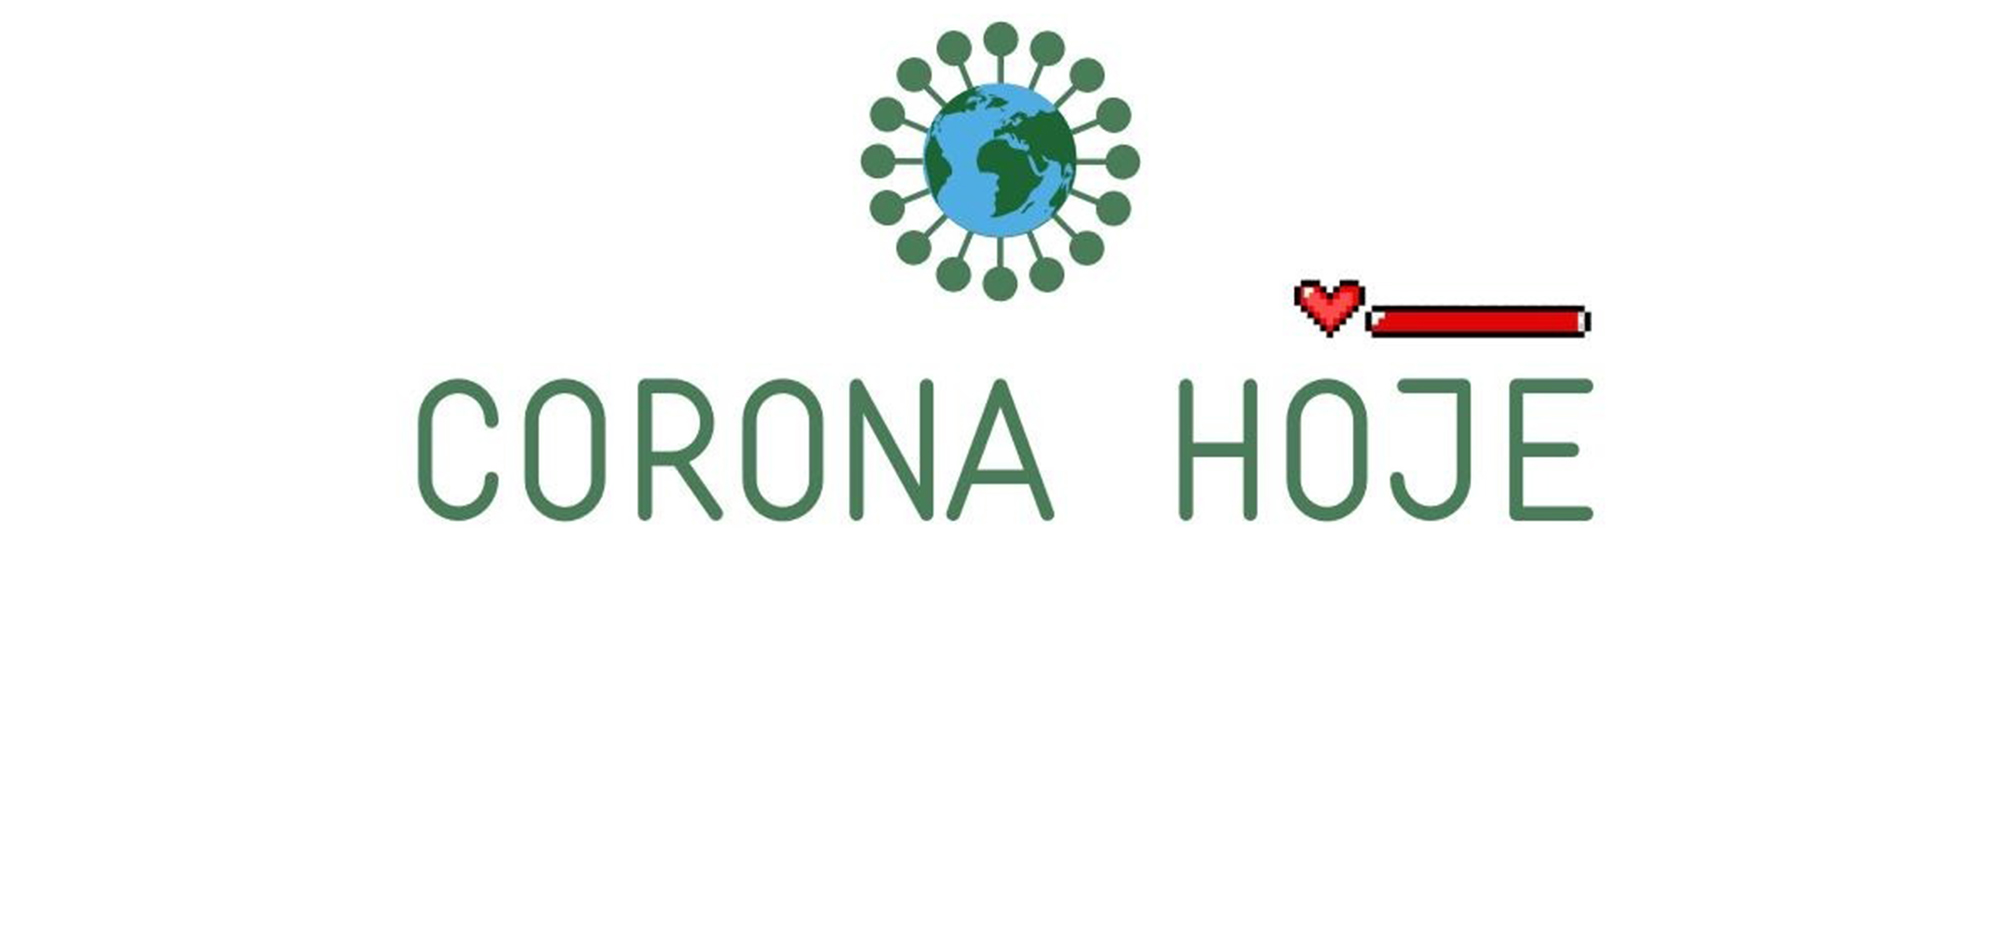
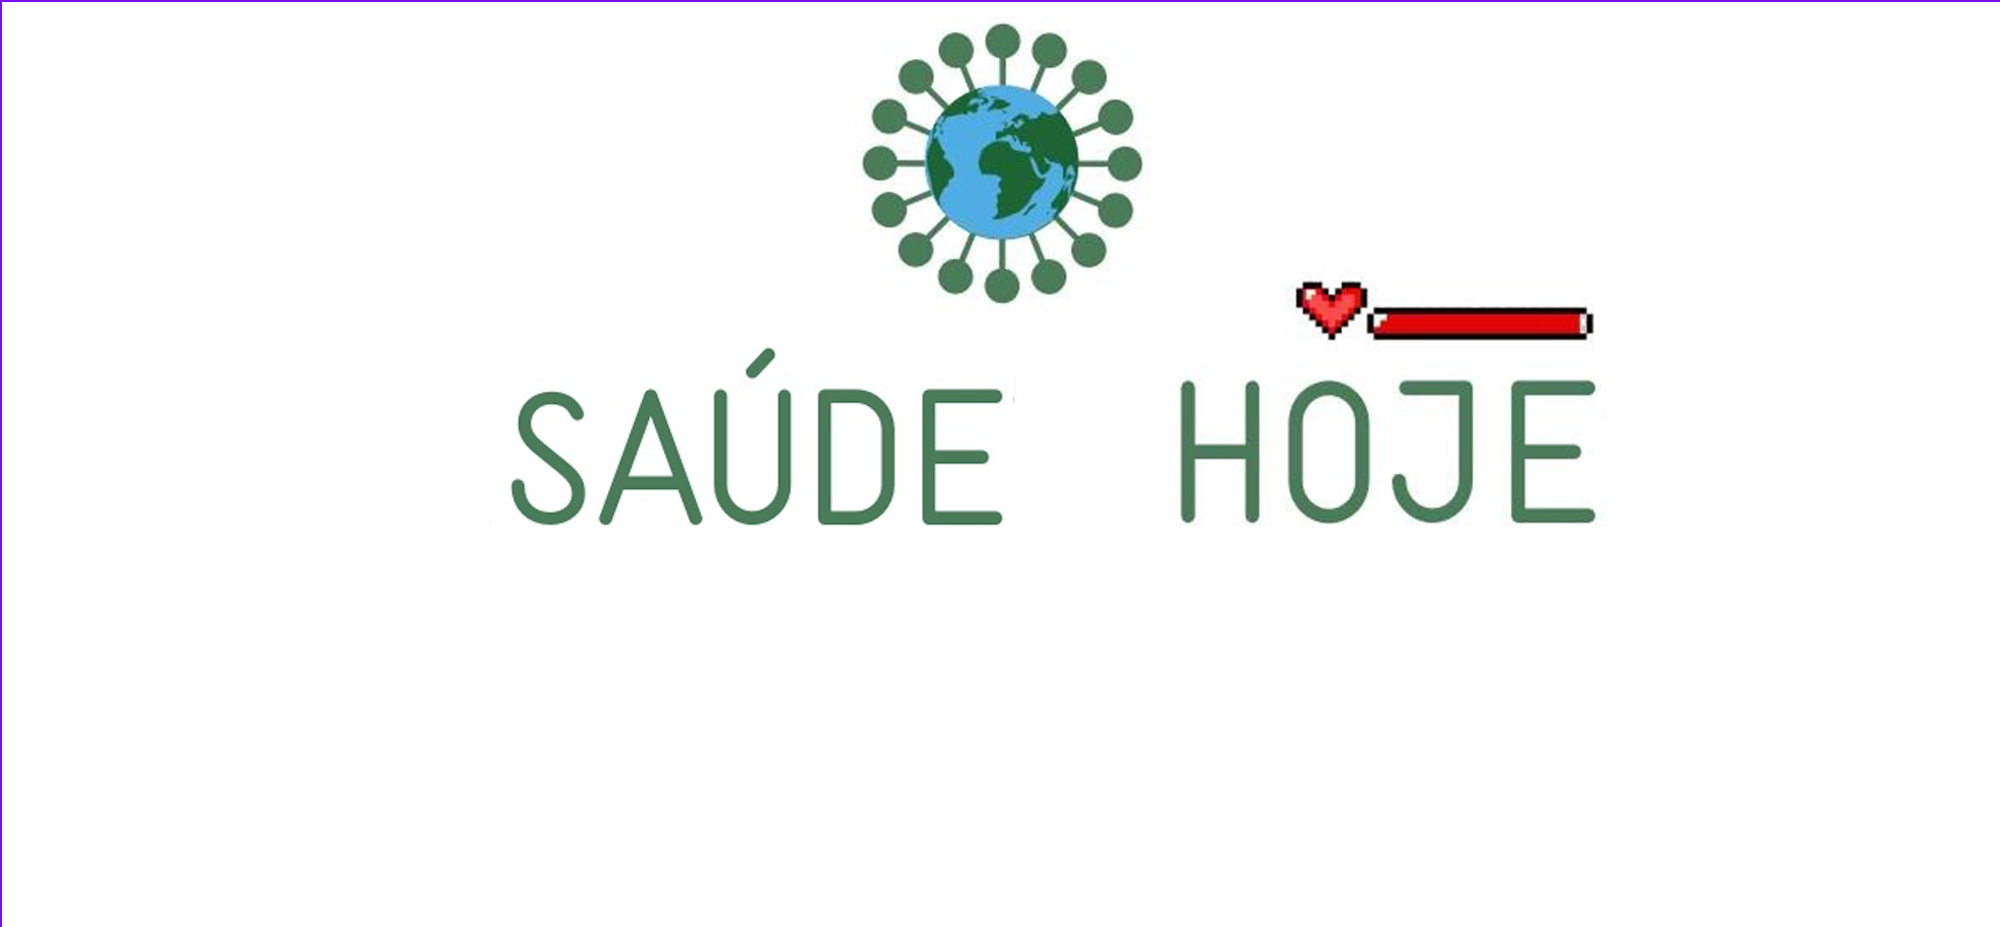
html ajust

diff --git a/src/www/saudehoje.html b/src/www/saudehoje.html
@@ -4,15 +4,15 @@
     <title>Outlier5</title>
     <meta charset="utf-8">
     <meta name="viewport" content="width=device-width, initial-scale=1, shrink-to-fit=no">
-    
+
     <link rel="shortcut icon" type="image/png" href="./images/ico.png"/>
 
     <link href="https://fonts.googleapis.com/css?family=Montserrat:200,300,400,500,600,700,800&display=swap" rel="stylesheet">
 
     <link rel="stylesheet" href="https://stackpath.bootstrapcdn.com/font-awesome/4.7.0/css/font-awesome.min.css">
- 
+
     <link rel="stylesheet" href="css/animate.css">
-    
+
     <link rel="stylesheet" href="css/owl.carousel.min.css">
     <link rel="stylesheet" href="css/owl.theme.default.min.css">
     <link rel="stylesheet" href="css/magnific-popup.css">
@@ -30,7 +30,7 @@
 			<div class="container">
 				<div class="row">
 					<div class="col-md-6 d-flex align-items-center">
-						<p class="mb-0 phone pl-md-2"> 
+						<p class="mb-0 phone pl-md-2">
 							<a href="mailto:contato@outlier5.com"><span class="fa fa-paper-plane mr-1"></span> contato@outlier5.com</a>
 						</p>
 					</div>
@@ -55,7 +55,7 @@
 	        <ul class="navbar-nav ml-auto">
               <li class="nav-item col-md-6"><a href="index.html" class="nav-link">Home</a></li>
 							<li class="nav-item col-md-6"><a href="about.html" class="nav-link">Sobre</a></li>
-							<li class="nav-item col-md-6 active"><a href="coronahoje.html" class="nav-link">Corona Hoje</a></li>
+							<li class="nav-item col-md-6 active"><a href="saudehoje.html" class="nav-link">Saúde hoje</a></li>
 							<!--<li class="nav-item"><a href="app.html" class="nav-link">App2</a></li>
 							<li class="nav-item"><a href="app.html" class="nav-link">App3</a></li>
 							<li class="nav-item"><a href="app.html" class="nav-link">App4</a></li>-->
@@ -70,7 +70,7 @@
         <div class="row no-gutters slider-text align-items-end">
           <div class="col-md-9 ftco-animate pb-5">
               <p class="breadcrumbs mb-2"><span class="mr-2"><a href="index.html">Home <i class="ion-ios-arrow-forward"></i></a></span> <span>App <i class="ion-ios-arrow-forward"></i></span></p>
-            <h1 class="mb-0 bread">Corona Hoje</h1>
+            <h1 class="mb-0 bread">Saúde hoje</h1>
           </div>
         </div>
       </div>
@@ -83,8 +83,8 @@
           	<p>
               <img src="images/bg_5.jpg" alt="" class="img-fluid">
             </p>
-            <h2 class="mb-3">Corona Hoje</h2>
-            <p>O Corona Hoje é um aplicativo móvel (em desenvolvimento) que fará uso de gamificação e geolocalização para promover o isolamento social voluntário, obter de dados de saúde da população em isolamento e gerar indicadores sobre o  cumprimento das medidas de contenção da epidemia.</p>
+            <h2 class="mb-3">Saúde hoje</h2>
+            <p>O Saúde hoje é um aplicativo móvel (em desenvolvimento) que fará uso de gamificação e geolocalização para promover o isolamento social voluntário, obter de dados de saúde da população em isolamento e gerar indicadores sobre o  cumprimento das medidas de contenção da epidemia.</p>
             <p>Nossa proposta é promover o isolamento social voluntário, empregando ferramentas de gamificação com vistas a reduzir a velocidade de propagação do COVID-19, incentivando a permanência em casa ao mesmo em que tempo busca a adesão de outros usuários de maneira exponencial.</p>
             <p>Através do uso de mecânicas de jogo, cada cidadão é incentivado a convidar pessoas de sua rede de contatos para aderirem ao aplicativo, acumulando pontos equivalentes ao seu tempo em casa e também ao tempo daqueles indicados por ele.</p>
             <p>Com a ajuda do aplicativo, o usuário informa seu estado de saúde e define uma meta diária de horas em casa e estabelece um compromisso público, enviando sua meta para um amigo monitor por ele definido. São apresentadas informações diárias sobre o desempenho individual do usuário e a comparação com a média da sua vizinhança e dos seus indicados.Além de contabilizar o cumprimento da meta, nossa aplicação incentiva o usuário a publicar em suas redes sociais seu compromisso público e seus resultados.</p>
@@ -93,7 +93,7 @@
             <p>
               <img src="images/bg_3.jpg" alt="" class="img-fluid">
             </p>
-            <p>O Corona Hoje possui em sua tela principal um mapa onde o cidadão poderá manter-se informado em tempo real sobre incidentes em sua região, tendo à sua disposição informações que vão desde áreas de risco classificadas em cores de acordo com a gravidade do risco, áreas com aglomerações de pessoas e incidentes relacionados à epidemia.</p>
+            <p>O Saúde hoje possui em sua tela principal um mapa onde o cidadão poderá manter-se informado em tempo real sobre incidentes em sua região, tendo à sua disposição informações que vão desde áreas de risco classificadas em cores de acordo com a gravidade do risco, áreas com aglomerações de pessoas e incidentes relacionados à epidemia.</p>
             <p>As pessoas poderão reportar incidentes ou condutas perigosas em tempo real com base na região onde estiverem e validarem incidentes reportados por outros. Após validados (seja por autoridades ou por pares), os incidentes informados serão geolocalizados e exibidos no mapa do aplicativo, sendo as áreas classificadas por cores conforme quantidade e gravidade de incidentes.</p>
             <p>O desempenho dos usuários dentro da aplicação poderá ser usado para concessão de prêmios por parte de empresas e órgãos parceiros (em desenvolvimento), que vão desde itens de sorteio a descontos em produtos e serviços, possibilitando visibilidade aos parceiros com investimentos relativamente baixos (com por exemplo, descontos e sorteios) e ganhos à população.</p>
             <div class="tag-widget post-tag-container mb-5 mt-5">
@@ -104,14 +104,14 @@
                 <a class="tag-cloud-link">Gamificação</a>
               </div>
             </div>
-            
+
             <div class="about-author d-flex p-4 bg-light">
               <div class="bio mr-5">
                 <img src="images/person_1.jpg" alt="Image placeholder" class="img-fluid mb-4">
               </div>
               <div class="desc">
                 <h3>Amaury Nogueira • Ceo &amp; Fundador</h3>
-                <p>O Corona Hoje consiste de um aplicativo móvel que faz uso de gamificação e geolocalização para promover o isolamento social voluntário, obter de dados de saúde da população em isolamento e informar autoridades sobre cumprimento medidas de contenção da epidemia.</p>
+                <p>O Saúde hoje consiste de um aplicativo móvel que faz uso de gamificação e geolocalização para promover o isolamento social voluntário, obter de dados de saúde da população em isolamento e informar autoridades sobre cumprimento medidas de contenção da epidemia.</p>
                 <p>O aplicativo tem sua mecânica de jogo baseada no monomito (às vezes chamado de "Jornada do Herói"), que trata-se de um conceito de jornada cíclica presente em mitos, de acordo com o antropólogo Joseph Campbell, e encontrado em narrativas de filmes de sucesso como Harry Potter, Senhor dos Anéis e Matrix.</p>
               </div>
             </div>
@@ -183,7 +183,7 @@
               <ul class="list-unstyled">
                 <li><a href="index.html" class="py-2 d-block">Home</a></li>
                 <li><a href="about.html" class="py-2 d-block">Sobre</a></li>
-                <li><a href="coronahoje.html" class="py-2 d-block">Corona Hoje</a></li>
+                <li><a href="saudehoje.html" class="py-2 d-block">Saúde hoje</a></li>
                 <!--<li><a href="app.html" class="py-2 d-block">App2</a></li>
                 <li><a href="app.html" class="py-2 d-block">App3</a></li>
                 <li><a href="app.html" class="py-2 d-block">App4</a></li>-->
@@ -203,8 +203,8 @@
         </div>
       </footer>
 
-    
-  
+
+
 
   <!-- loader -->
   <div id="ftco-loader" class="show fullscreen"><svg class="circular" width="48px" height="48px"><circle class="path-bg" cx="24" cy="24" r="22" fill="none" stroke-width="4" stroke="#eeeeee"/><circle class="path" cx="24" cy="24" r="22" fill="none" stroke-width="4" stroke-miterlimit="10" stroke="#F96D00"/></svg></div>
@@ -228,6 +228,6 @@
   <script src="js/main.js"></script>
 
 
-    
+
   </body>
 </html>

diff --git a/src/www/index.html b/src/www/index.html
@@ -4,15 +4,15 @@
     <title>Outlier5</title>
     <meta charset="utf-8">
 		<meta name="viewport" content="width=device-width, initial-scale=1, shrink-to-fit=no">
-		
+
 		<link rel="shortcut icon" type="image/png" href="./images/ico.png"/>
-    
+
     <link href="https://fonts.googleapis.com/css?family=Montserrat:200,300,400,500,600,700,800&display=swap" rel="stylesheet">
 
     <link rel="stylesheet" href="https://stackpath.bootstrapcdn.com/font-awesome/4.7.0/css/font-awesome.min.css">
- 
+
     <link rel="stylesheet" href="css/animate.css">
-    
+
     <link rel="stylesheet" href="css/owl.carousel.min.css">
     <link rel="stylesheet" href="css/owl.theme.default.min.css">
     <link rel="stylesheet" href="css/magnific-popup.css">
@@ -30,7 +30,7 @@
 			<div class="container">
 				<div class="row">
 					<div class="col-md-6 d-flex align-items-center">
-						<p class="mb-0 phone pl-md-2"> 
+						<p class="mb-0 phone pl-md-2">
 							<a href="mailto:contato@outlier5.com"><span class="fa fa-paper-plane mr-1"></span> contato@outlier5.com</a>
 						</p>
 					</div>
@@ -55,7 +55,7 @@
 	        <ul class="navbar-nav ml-auto">
 						<li class="nav-item col-md-6 active"><a href="index.html" class="nav-link">Home</a></li>
 						<li class="nav-item col-md-6"><a href="about.html" class="nav-link">Sobre</a></li>
-						<li class="nav-item col-md-6"><a href="coronahoje.html" class="nav-link">Corona Hoje</a></li>
+						<li class="nav-item col-md-6"><a href="saudehoje.html" class="nav-link">Saúde Hoje</a></li>
 						<!--
 						<li class="nav-item"><a href="app.html" class="nav-link">App2</a></li>
 						<li class="nav-item"><a href="app.html" class="nav-link">App3</a></li>
@@ -83,17 +83,17 @@
           <div class="col-md-12 d-flex align-self-stretch px-4 ftco-animate" style="padding-bottom: 0%">
             <div class="d-block services text-center">
               <div class="icon d-flex align-items-center justify-content-center">
-            		<span><img src="./images/corona.jpeg" style="border-radius: 50%; width: 100%;" alt="corona hoje"></span>
+            		<span><img src="./images/corona.jpg" style="border-radius: 50%; width: 100%;" alt="saude hoje"></span>
               </div>
               <div class="media-body">
-                <h3 class="heading">Corona Hoje</h3>
+                <h3 class="heading">Saúde Hoje</h3>
                 <p>Aplicativo desenvolvido para alertar as pessoas sobre o avanço do COVID-19 e trazer notícias atualizadas e de fontes seguras por estado.</p>
-                <a href="coronahoje.html" class="btn-custom d-flex align-items-center justify-content-center"><span class="fa fa-chevron-right"></span><i class="sr-only">Leia Mais</i></a>
+                <a href="saudehoje.html" class="btn-custom d-flex align-items-center justify-content-center"><span class="fa fa-chevron-right"></span><i class="sr-only">Leia Mais</i></a>
               </div>
-            </div>      
+            </div>
 					</div>
 					<!--
-          <div class="col-md-4 d-flex align-self-stretch px-4 ftco-animate" style="padding-bottom: 15%"> 
+          <div class="col-md-4 d-flex align-self-stretch px-4 ftco-animate" style="padding-bottom: 15%">
             <div class="d-block services text-center">
               <div class="icon d-flex align-items-center justify-content-center">
             		<span><img src="./images/corona.jpeg" style="border-radius: 50%; width: 100%;" alt="corona hoje"></span>
@@ -103,7 +103,7 @@
                 <p>Descrição do apk 2</p>
                 <a href="app.html" class="btn-custom d-flex align-items-center justify-content-center"><span class="fa fa-chevron-right"></span><i class="sr-only">Leia Mais</i></a>
               </div>
-            </div>    
+            </div>
           </div>
           <div class="col-md-4 d-flex align-self-stretch px-4 ftco-animate" style="padding-bottom: 15%">
             <div class="d-block services text-center">
@@ -115,7 +115,7 @@
                 <p>Descrição dp apk 3</p>
                 <a href="app.html" class="btn-custom d-flex align-items-center justify-content-center"><span class="fa fa-chevron-right"></span><i class="sr-only">Leia Mais</i></a>
               </div>
-            </div>      
+            </div>
           </div>-->
         </div>
     	</div>
@@ -228,7 +228,7 @@
 	            <div class="text-center p-4">
 	            	<span class="excerpt d-block">Pacote 1</span>
 	            	<span class="price"><sup>R$</sup> <span class="number">1000</span> <sub>/apk</sub></span>
-	            
+
 		            <ul class="pricing-text mb-5">
 		              <li><span class="fa fa-check mr-2"></span>Direito 1</li>
 		              <li><span class="fa fa-check mr-2"></span>Direito 2</li>
@@ -246,7 +246,7 @@
 	            <div class="text-center p-4">
 	            	<span class="excerpt d-block">Pacote 2</span>
 		            <span class="price"><sup>R$</sup> <span class="number">2000</span> <sub>/apk</sub></span>
-		            
+
 		            <ul class="pricing-text mb-5">
 										<li><span class="fa fa-check mr-2"></span>Direito 1</li>
 										<li><span class="fa fa-check mr-2"></span>Direito 2</li>
@@ -264,7 +264,7 @@
 	            <div class="text-center p-4">
 	            	<span class="excerpt d-block">Pacote Ultimate</span>
 		            <span class="price"><sup>R$</sup> <span class="number">3000</span> <sub>/apk</sub></span>
-		            
+
 		            <ul class="pricing-text mb-5">
 										<li><span class="fa fa-check mr-2"></span>Direito 1</li>
 										<li><span class="fa fa-check mr-2"></span>Direito 2</li>
@@ -340,7 +340,7 @@
 						<ul class="list-unstyled">
 							<li><a href="index.html" class="py-2 d-block">Home</a></li>
 							<li><a href="about.html" class="py-2 d-block">Sobre</a></li>
-							<li><a href="coronahoje.html" class="py-2 d-block">Corona Hoje</a></li>
+							<li><a href="coronahoje.html" class="py-2 d-block">Saúde Hoje</a></li>
 							<!--<li><a href="app.html" class="py-2 d-block">App2</a></li>
 							<li><a href="app.html" class="py-2 d-block">App3</a></li>
 							<li><a href="app.html" class="py-2 d-block">App4</a></li>-->
@@ -360,8 +360,8 @@
 			</div>
 		</footer>
 
-    
-  
+
+
 
   <!-- loader -->
   <div id="ftco-loader" class="show fullscreen"><svg class="circular" width="48px" height="48px"><circle class="path-bg" cx="24" cy="24" r="22" fill="none" stroke-width="4" stroke="#eeeeee"/><circle class="path" cx="24" cy="24" r="22" fill="none" stroke-width="4" stroke-miterlimit="10" stroke="#F96D00"/></svg></div>
@@ -385,6 +385,6 @@
   <script src="js/main.js"></script>
 
 
-    
+
   </body>
 </html>
